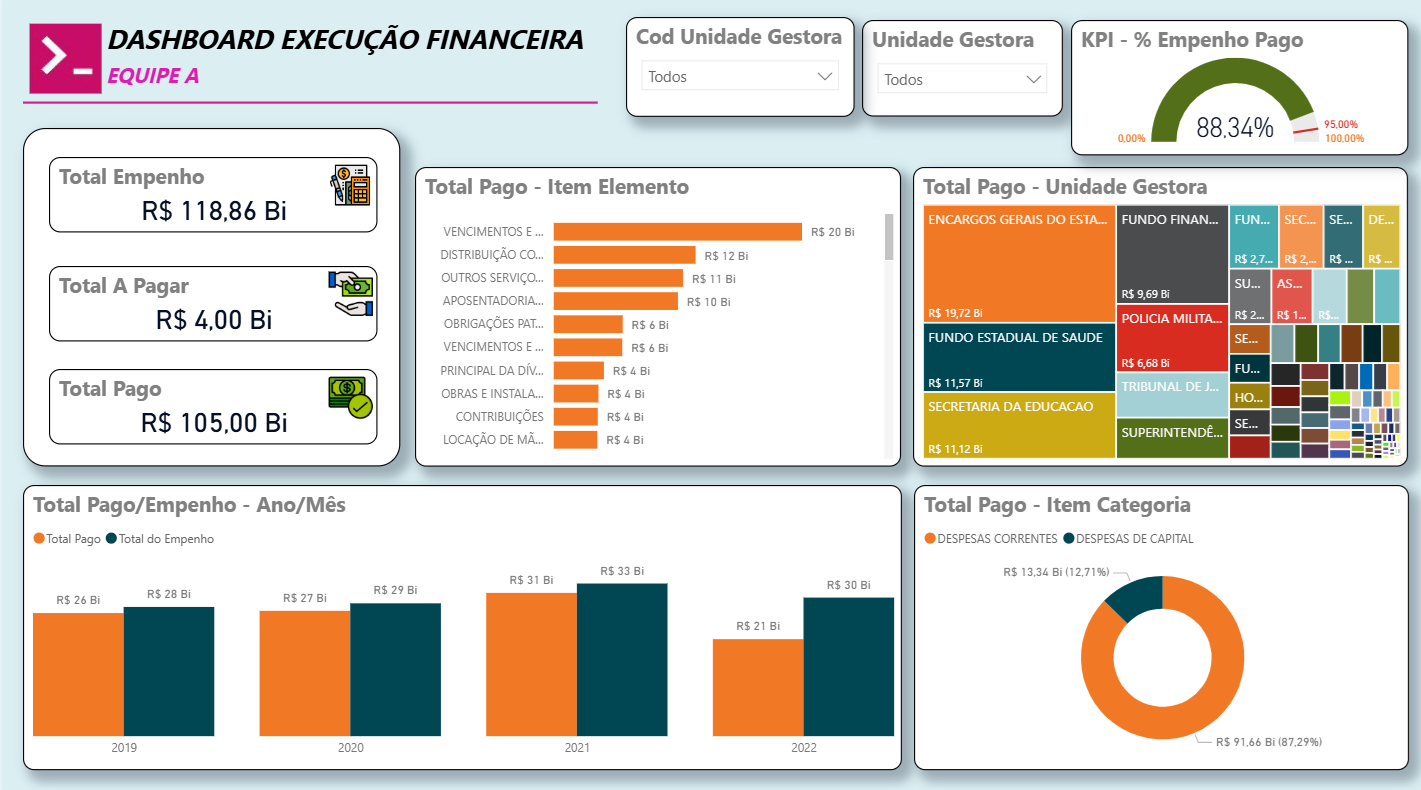
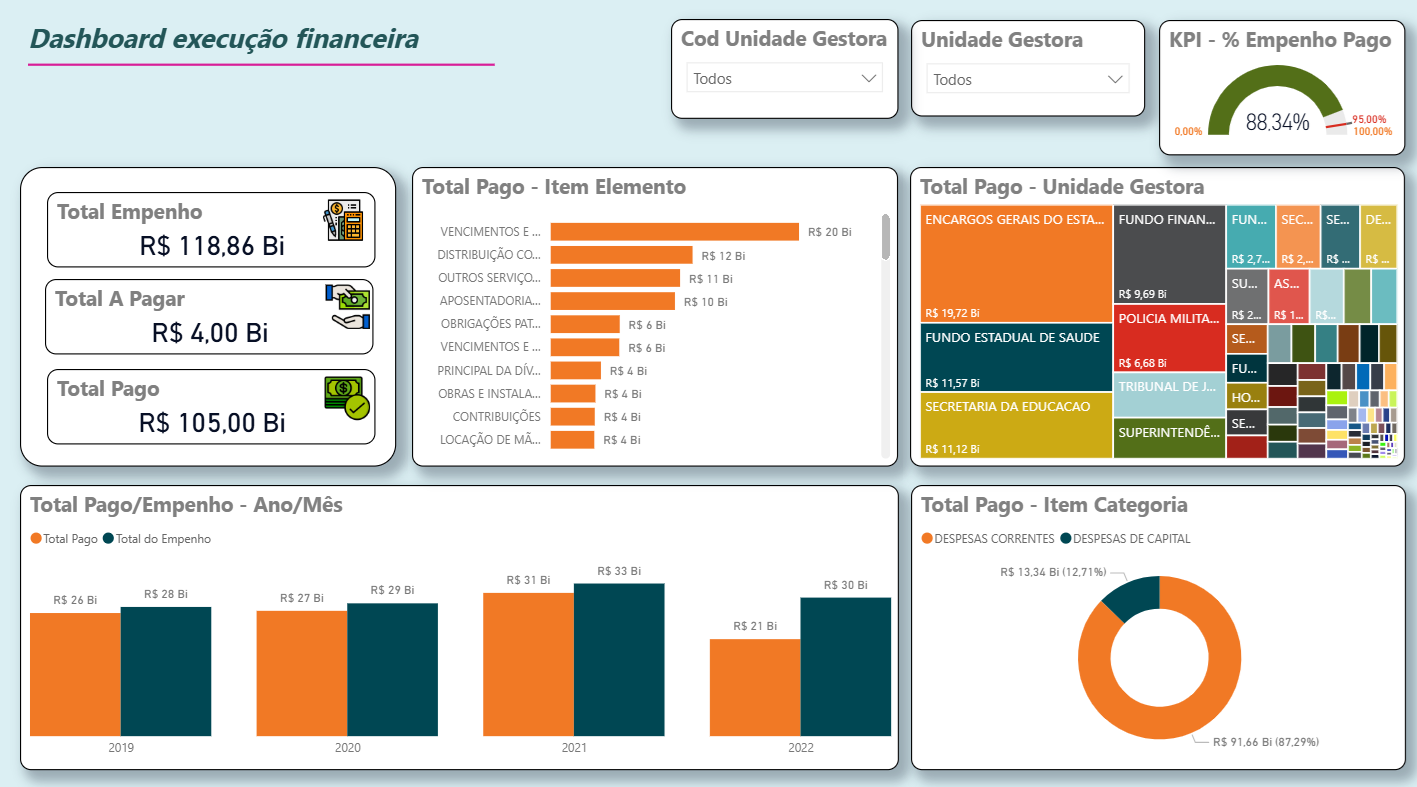
order by pages

diff --git a/pages/2_Power_BI.py b/pages/2_Power_BI.py
@@ -59,7 +59,7 @@ st.markdown('''
 
     - Ao interagir com o gráfico (como visto na imagem 3), é possível ver o detalhamento total de entregas (23.690), segmentadas entre Entregas no Prazo (17.086) e Entregas Atrasadas (6.604).
 
-    - KPI de Eficiência (Entregas no Prazo):
+- **KPI de Eficiência (Entregas no Prazo)**:
 
     - Um medidor (gauge) dedicado monitora um dos KPIs mais críticos da logística.
 
@@ -83,7 +83,7 @@ Este dashboard oferece uma visão executiva e detalhada da execução financeira
 especificamente para o monitoramento de um grande orçamento (neste caso, público ou corporativo).
 
 O painel centraliza os principais indicadores de compromisso orçamentário (empenho) e pagamento, 
-permitindo que os gestores (representados pela "Equipe A") analisem a performance financeira, 
+permitindo que os gestores analisem a performance financeira, 
 identifiquem gargalos e entendam a distribuição dos gastos.
 ''')
 
@@ -97,8 +97,6 @@ with col2:
     st.image('./assets/fin_02.png', width=700)
 
 st.subheader('Principais Análises e Recursos do Painel')
-
-
 
 
 st.markdown('''

diff --git a/Dione_Nascimento.py b/Dione_Nascimento.py
@@ -7,6 +7,8 @@ st.set_page_config(
     layout='wide'
 )
 
+
+
 # Cria duas colunas: uma para a imagem e outra para o texto
 col1, col2 = st.columns([1, 2])  # Ajuste os números para proporção desejada
 
